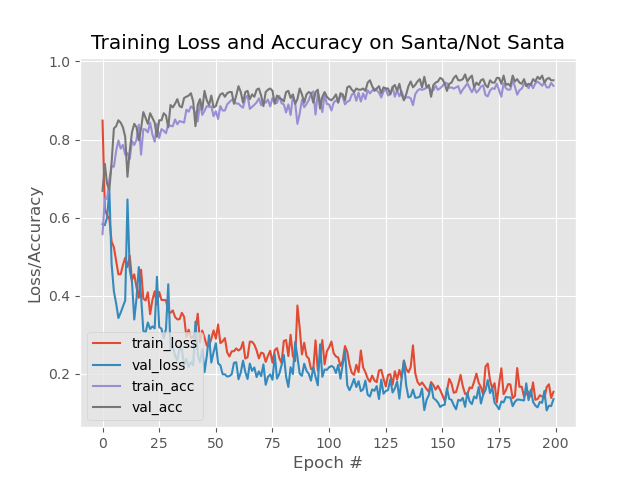
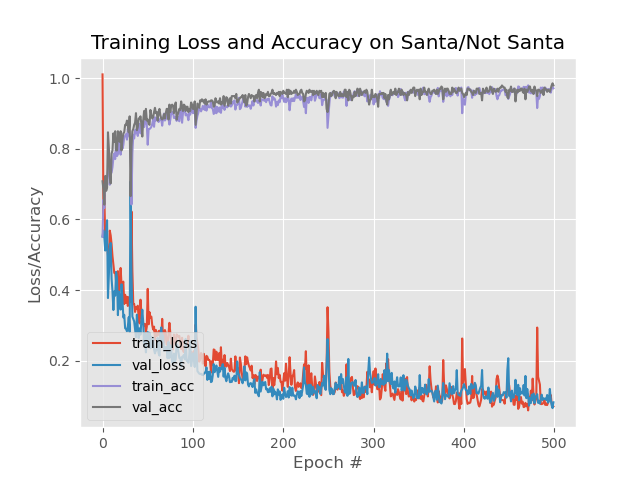
4x4

diff --git a/flightshot.py b/flightshot.py
@@ -236,15 +236,16 @@ def grab_buffer():
     return copy
 
 
-def grab_background(pixels):
+def grab_background(pixels, return_to_black=True):
     global do_i_shoot
     pixels.fill((255, 255, 255))
     pixels.show()
     do_i_shoot = True
     time.sleep(0.125)
     do_i_shoot = False
-    pixels.fill((0, 0, 0))
-    pixels.show()
+    if return_to_black:
+        pixels.fill((0, 0, 0))
+        pixels.show()
     buffer = grab_buffer()
     if len(buffer) > 0:
         print(f"[INFO] Background frame count: {len(buffer)}")

diff --git a/train_network.py b/train_network.py
@@ -32,7 +32,7 @@ args = vars(ap.parse_args())
 
 # initialize the number of epochs to train for, initia learning rate,
 # and batch size
-EPOCHS = 200
+EPOCHS = 500
 INIT_LR = 1e-3
 BS = 32
 
